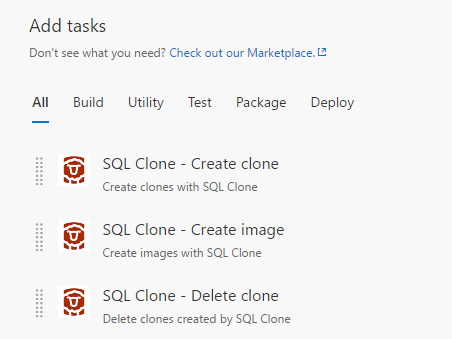
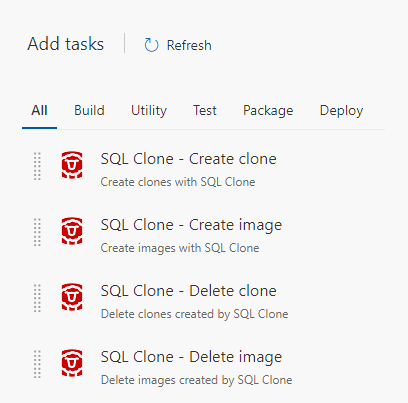
add delete image task

diff --git a/overview.md b/overview.md
@@ -6,6 +6,7 @@ Installing this extension provides three tasks:
 * **Create image** – An image is a full sized copy of a database at a point in time and can be created from a live database or backup file.
 * **Create clone** – Clones reference the data stored in the image so can be created in seconds using MBs of disk space.  
 * **Delete clone** – Remove any clones that are no longer in use.
+* **Delete image** – Remove any image that are no longer in use.
 
 ![task-screenshot](images/CloneTasks.png)
 
@@ -49,6 +50,12 @@ Specify the image the clone will be created from, as well as the target SQL Serv
 Remove clones created specifically for this build process.
 
 ![delete-clone-screenshot](images/DeleteCloneTask.png)
+
+### Delete image
+
+Remove image created specifically for this build process.
+
+![delete-image-screenshot](images/DeleteImageTask.png)
 
 
 ## Tools and Pricing
